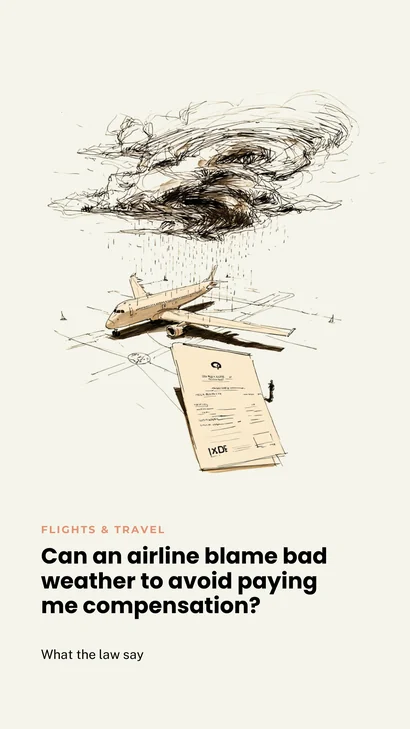
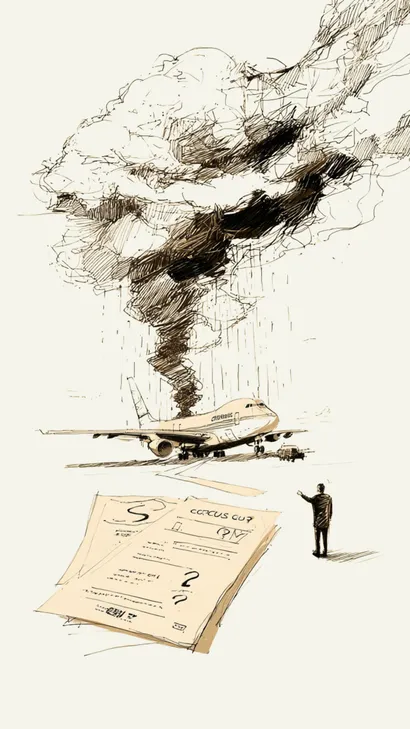
Flights & Travel pillar page: same title-free image + card text fix
The pillar page (flights-travel.html) has its own copy of the 5
Questions cards, separate from questions.html, and it was still
serving the OLD title-baked images — it uses a <picture>/webp source
that questions.html's cards don't use, which the earlier fix missed.

- Regenerated all 15 webp variants (full/320w/410w for all 5 slugs)
  from the new title-free PNGs already live in
  images/questions/flights-travel/, matching the existing width/quality
  convention exactly.
- Applied the same .q-card/.q-img-card/.q-card-category/.q-card-title
  structure used on questions.html so title and category render as
  real HTML text below the image here too, instead of only an image.

diff --git a/flights-travel.html b/flights-travel.html
@@ -474,28 +474,50 @@
        at all for an empty array. -->
   <div id="chFutureSections"></div>
 
-  <!-- QUESTIONS — image-only cards, same .q-card-grid/.q-img-card component as
-       questions.html. Static (not JS-rendered like Calculators/Cases/Investigations
-       above) since this section, unlike those, isn't meant to silently disappear if
-       empty -- Flights & Travel is the pilot block and genuinely has 5 today. -->
+  <!-- QUESTIONS — image + category + title cards, same .q-card-grid/.q-card
+       component as questions.html (title/category are real HTML text, never
+       baked into the image). Static (not JS-rendered like Calculators/Cases/
+       Investigations above) since this section, unlike those, isn't meant to
+       silently disappear if empty -- Flights & Travel is the pilot block and
+       genuinely has 5 today. -->
   <section aria-labelledby="ch-questions-h2" style="margin-top: 56px;">
     <h2 id="ch-questions-h2" class="cl-hub-cat">Questions</h2>
     <p class="cl-hub-cat-sub">Real questions about flight delays, cancellations and airline rules — answered with the exact US and UK law that applies. <a href="/questions">See all Questions →</a></p>
     <div class="q-card-grid">
-      <a class="q-img-card" href="/questions/flights-travel/can-an-airline-bump-me-after-checkin">
-        <picture><source srcset="/images/questions/flights-travel/can-an-airline-bump-me-after-checkin-320w.webp 320w, /images/questions/flights-travel/can-an-airline-bump-me-after-checkin-410w.webp 410w, /images/questions/flights-travel/can-an-airline-bump-me-after-checkin.webp 540w" sizes="(min-width: 960px) 265px, (min-width: 640px) 205px, 160px" type="image/webp"><img src="/images/questions/flights-travel/can-an-airline-bump-me-after-checkin.png" alt="Can an airline bump me from a flight even after I've checked in?" loading="lazy" width="1200" height="2133"></picture>
+      <a class="q-card" href="/questions/flights-travel/can-an-airline-bump-me-after-checkin">
+        <div class="q-img-card">
+          <picture><source srcset="/images/questions/flights-travel/can-an-airline-bump-me-after-checkin-320w.webp 320w, /images/questions/flights-travel/can-an-airline-bump-me-after-checkin-410w.webp 410w, /images/questions/flights-travel/can-an-airline-bump-me-after-checkin.webp 540w" sizes="(min-width: 960px) 265px, (min-width: 640px) 205px, 160px" type="image/webp"><img src="/images/questions/flights-travel/can-an-airline-bump-me-after-checkin.png" alt="Can an airline bump me from a flight even after I've checked in?" loading="lazy" width="1200" height="2133"></picture>
+        </div>
+        <span class="q-card-category">Flights &amp; Travel</span>
+        <h3 class="q-card-title">Can an airline bump me from a flight even after I've checked in?</h3>
       </a>
-      <a class="q-img-card" href="/questions/flights-travel/can-an-airline-charge-me-for-name-correction">
-        <picture><source srcset="/images/questions/flights-travel/can-an-airline-charge-me-for-name-correction-320w.webp 320w, /images/questions/flights-travel/can-an-airline-charge-me-for-name-correction-410w.webp 410w, /images/questions/flights-travel/can-an-airline-charge-me-for-name-correction.webp 540w" sizes="(min-width: 960px) 265px, (min-width: 640px) 205px, 160px" type="image/webp"><img src="/images/questions/flights-travel/can-an-airline-charge-me-for-name-correction.png" alt="Can an airline charge me for correcting a misspelled name on my ticket?" loading="lazy" width="1200" height="2133"></picture>
+      <a class="q-card" href="/questions/flights-travel/can-an-airline-charge-me-for-name-correction">
+        <div class="q-img-card">
+          <picture><source srcset="/images/questions/flights-travel/can-an-airline-charge-me-for-name-correction-320w.webp 320w, /images/questions/flights-travel/can-an-airline-charge-me-for-name-correction-410w.webp 410w, /images/questions/flights-travel/can-an-airline-charge-me-for-name-correction.webp 540w" sizes="(min-width: 960px) 265px, (min-width: 640px) 205px, 160px" type="image/webp"><img src="/images/questions/flights-travel/can-an-airline-charge-me-for-name-correction.png" alt="Can an airline charge me for correcting a misspelled name on my ticket?" loading="lazy" width="1200" height="2133"></picture>
+        </div>
+        <span class="q-card-category">Flights &amp; Travel</span>
+        <h3 class="q-card-title">Can an airline charge me for correcting a misspelled name on my ticket?</h3>
       </a>
-      <a class="q-img-card" href="/questions/flights-travel/can-i-get-my-money-back-flight-delayed-hours">
-        <picture><source srcset="/images/questions/flights-travel/can-i-get-my-money-back-flight-delayed-hours-320w.webp 320w, /images/questions/flights-travel/can-i-get-my-money-back-flight-delayed-hours-410w.webp 410w, /images/questions/flights-travel/can-i-get-my-money-back-flight-delayed-hours.webp 540w" sizes="(min-width: 960px) 265px, (min-width: 640px) 205px, 160px" type="image/webp"><img src="/images/questions/flights-travel/can-i-get-my-money-back-flight-delayed-hours.png" alt="Can I get my money back if my flight is delayed for hours?" loading="lazy" width="1200" height="2133"></picture>
+      <a class="q-card" href="/questions/flights-travel/can-i-get-my-money-back-flight-delayed-hours">
+        <div class="q-img-card">
+          <picture><source srcset="/images/questions/flights-travel/can-i-get-my-money-back-flight-delayed-hours-320w.webp 320w, /images/questions/flights-travel/can-i-get-my-money-back-flight-delayed-hours-410w.webp 410w, /images/questions/flights-travel/can-i-get-my-money-back-flight-delayed-hours.webp 540w" sizes="(min-width: 960px) 265px, (min-width: 640px) 205px, 160px" type="image/webp"><img src="/images/questions/flights-travel/can-i-get-my-money-back-flight-delayed-hours.png" alt="Can I get my money back if my flight is delayed for hours?" loading="lazy" width="1200" height="2133"></picture>
+        </div>
+        <span class="q-card-category">Flights &amp; Travel</span>
+        <h3 class="q-card-title">Can I get my money back if my flight is delayed for hours?</h3>
       </a>
-      <a class="q-img-card" href="/questions/flights-travel/can-an-airline-blame-weather-avoid-compensation">
-        <picture><source srcset="/images/questions/flights-travel/can-an-airline-blame-weather-avoid-compensation-320w.webp 320w, /images/questions/flights-travel/can-an-airline-blame-weather-avoid-compensation-410w.webp 410w, /images/questions/flights-travel/can-an-airline-blame-weather-avoid-compensation.webp 540w" sizes="(min-width: 960px) 265px, (min-width: 640px) 205px, 160px" type="image/webp"><img src="/images/questions/flights-travel/can-an-airline-blame-weather-avoid-compensation.png" alt="Can an airline blame bad weather to avoid paying me compensation?" loading="lazy" width="1200" height="2133"></picture>
+      <a class="q-card" href="/questions/flights-travel/can-an-airline-blame-weather-avoid-compensation">
+        <div class="q-img-card">
+          <picture><source srcset="/images/questions/flights-travel/can-an-airline-blame-weather-avoid-compensation-320w.webp 320w, /images/questions/flights-travel/can-an-airline-blame-weather-avoid-compensation-410w.webp 410w, /images/questions/flights-travel/can-an-airline-blame-weather-avoid-compensation.webp 540w" sizes="(min-width: 960px) 265px, (min-width: 640px) 205px, 160px" type="image/webp"><img src="/images/questions/flights-travel/can-an-airline-blame-weather-avoid-compensation.png" alt="Can an airline blame bad weather to avoid paying me compensation?" loading="lazy" width="1200" height="2133"></picture>
+        </div>
+        <span class="q-card-category">Flights &amp; Travel</span>
+        <h3 class="q-card-title">Can an airline blame bad weather to avoid paying me compensation?</h3>
       </a>
-      <a class="q-img-card" href="/questions/flights-travel/can-an-airline-change-flight-time-without-telling-me">
-        <picture><source srcset="/images/questions/flights-travel/can-an-airline-change-flight-time-without-telling-me-320w.webp 320w, /images/questions/flights-travel/can-an-airline-change-flight-time-without-telling-me-410w.webp 410w, /images/questions/flights-travel/can-an-airline-change-flight-time-without-telling-me.webp 540w" sizes="(min-width: 960px) 265px, (min-width: 640px) 205px, 160px" type="image/webp"><img src="/images/questions/flights-travel/can-an-airline-change-flight-time-without-telling-me.png" alt="Can an airline change my flight time without telling me in advance?" loading="lazy" width="1200" height="2133"></picture>
+      <a class="q-card" href="/questions/flights-travel/can-an-airline-change-flight-time-without-telling-me">
+        <div class="q-img-card">
+          <picture><source srcset="/images/questions/flights-travel/can-an-airline-change-flight-time-without-telling-me-320w.webp 320w, /images/questions/flights-travel/can-an-airline-change-flight-time-without-telling-me-410w.webp 410w, /images/questions/flights-travel/can-an-airline-change-flight-time-without-telling-me.webp 540w" sizes="(min-width: 960px) 265px, (min-width: 640px) 205px, 160px" type="image/webp"><img src="/images/questions/flights-travel/can-an-airline-change-flight-time-without-telling-me.png" alt="Can an airline change my flight time without telling me in advance?" loading="lazy" width="1200" height="2133"></picture>
+        </div>
+        <span class="q-card-category">Flights &amp; Travel</span>
+        <h3 class="q-card-title">Can an airline change my flight time without telling me in advance?</h3>
       </a>
     </div>
   </section>
